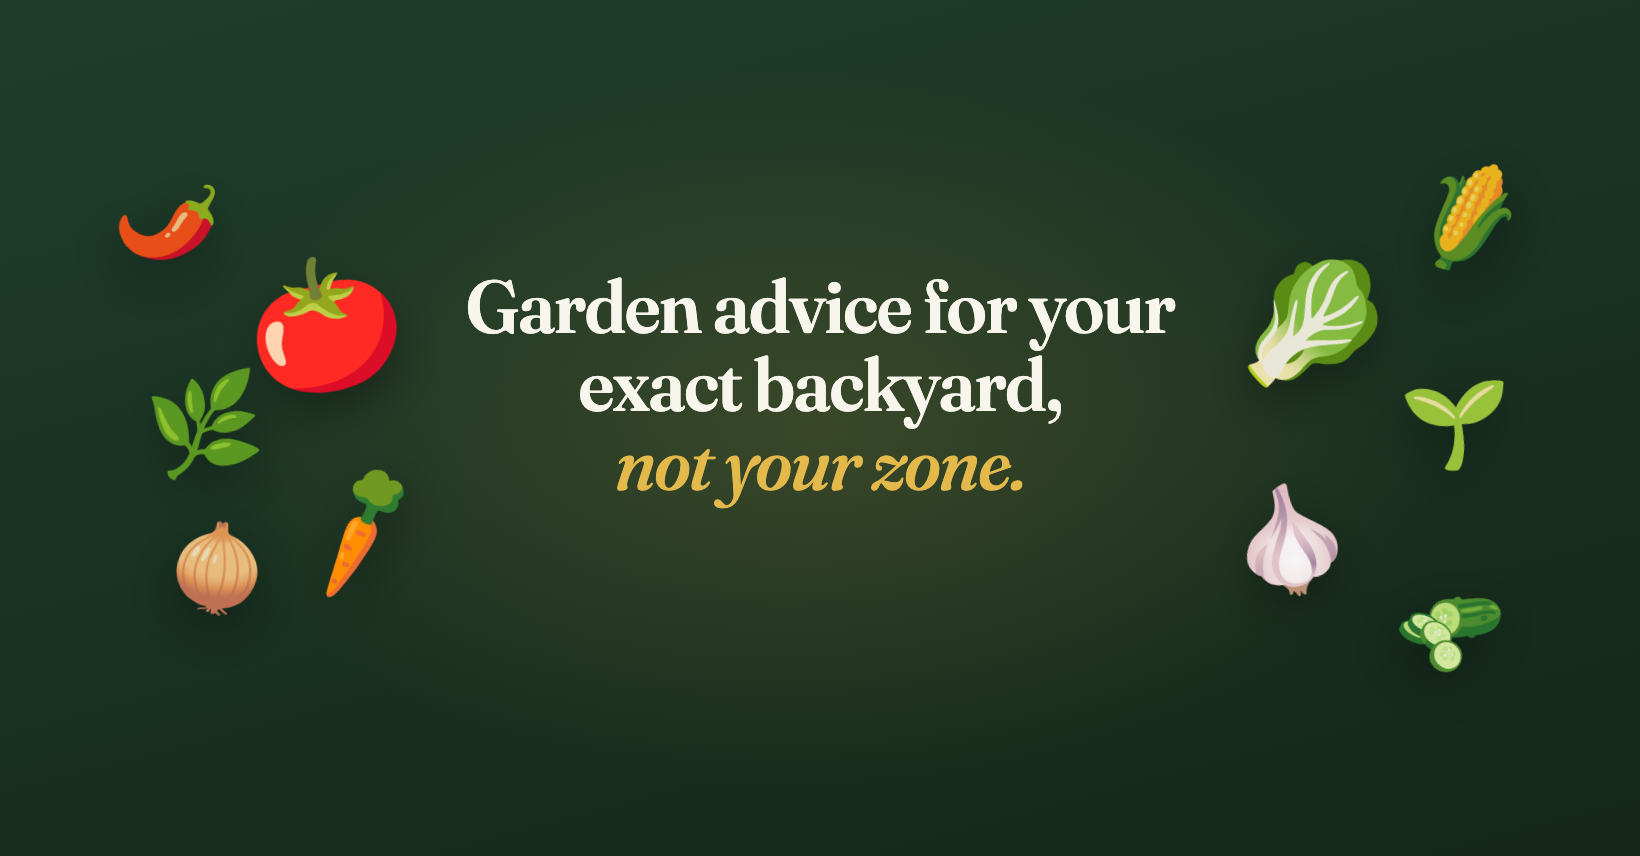
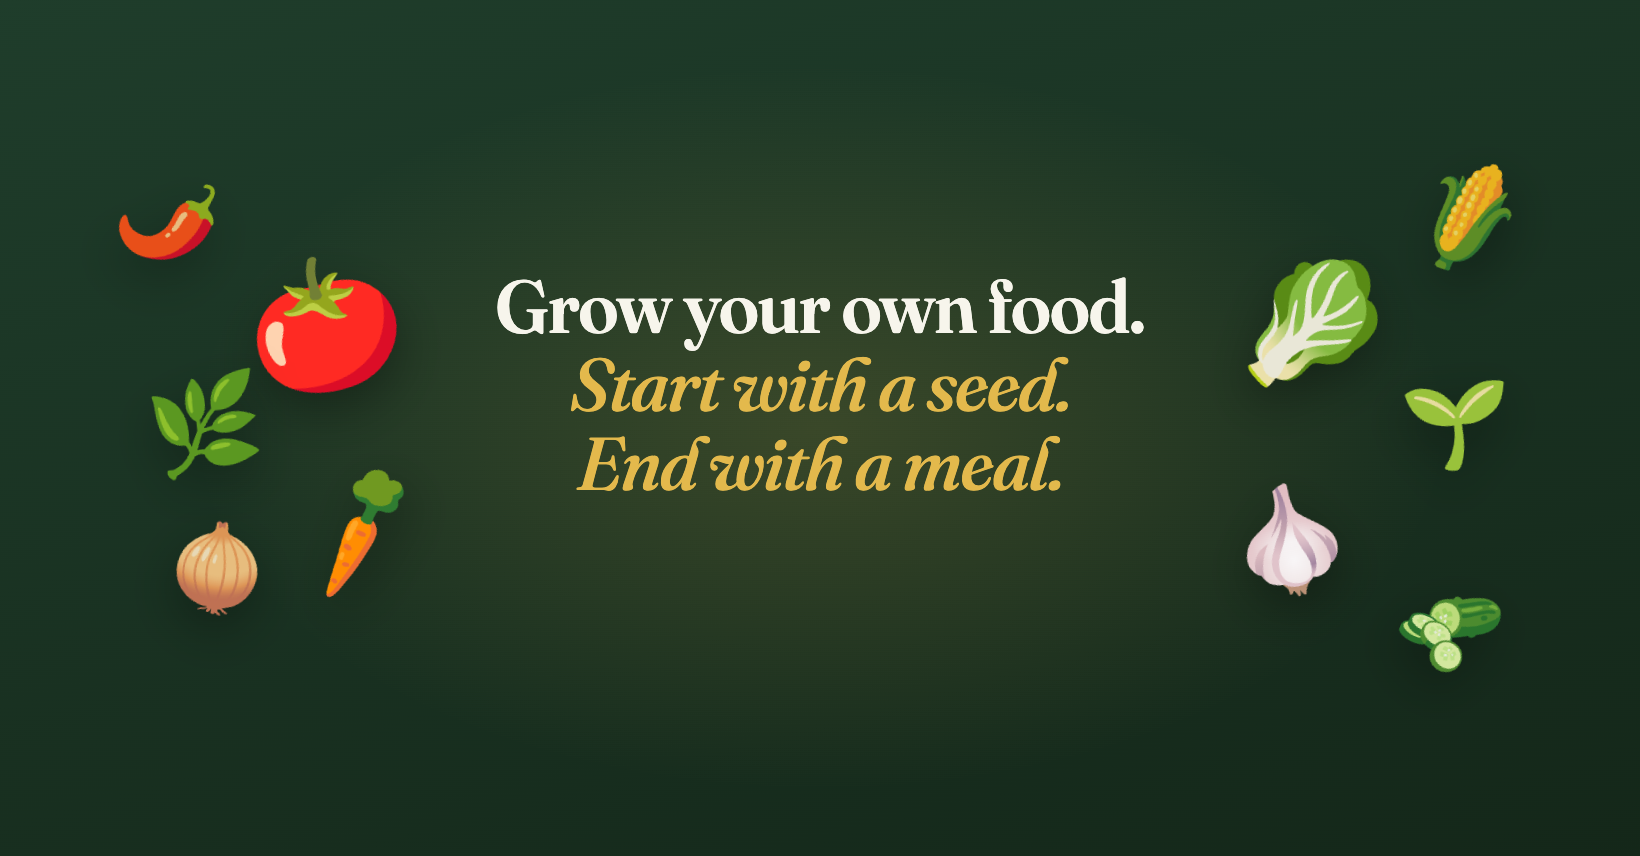
Facebook cover: 'Grow your own food. Start with a seed. End with a meal.'

Changed region(s): [[0.2799, 0.3037, 0.7152, 0.486], [0.3421, 0.5164, 0.653, 0.6075]]

diff --git a/marketing/facebook/cover-source.html b/marketing/facebook/cover-source.html
@@ -21,5 +21,5 @@ h1 em{font-style:italic;font-weight:500;color:#E3B94C}
 <img class="emo" src="emoji/emoji_u1f331.svg" style="width:104px;left:1400px;top:370px;transform:rotate(6deg)">
 <img class="emo" src="emoji/emoji_u1f33d.svg" style="width:96px;left:1420px;top:170px;transform:rotate(-16deg);opacity:0.9">
 <img class="emo" src="emoji/emoji_u1f952.svg" style="width:96px;left:1400px;top:580px;transform:rotate(22deg);opacity:0.9">
-<div class="text"><h1>Garden advice for your<br>exact backyard,<br><em>not your zone.</em></h1></div>
+<div class="text"><h1>Grow your own food.<br><em>Start with a seed.<br>End with a meal.</em></h1></div>
 </body></html>
